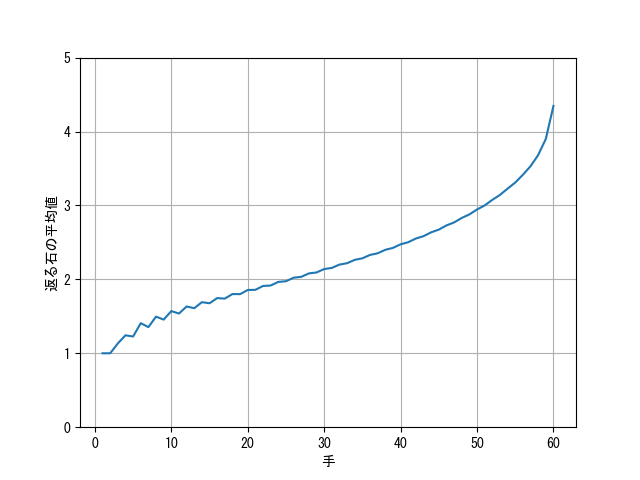
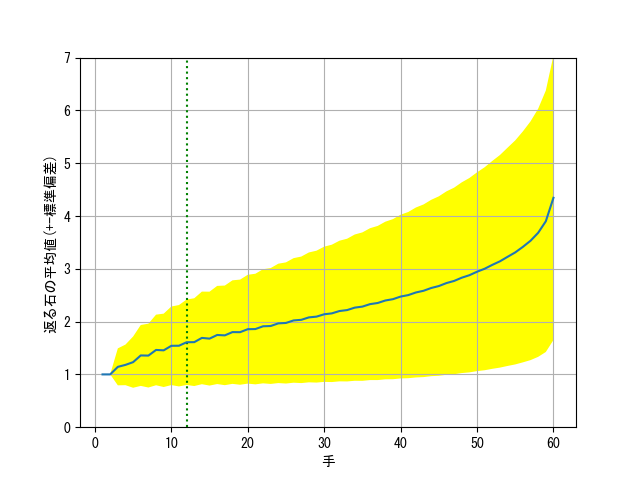
update img

diff --git a/README.md b/README.md
@@ -4,21 +4,73 @@
 
 codes are copied from [Egaroucid](https://www.egaroucid.nyanyan.dev/)
 
-
+![n_flipped](image/n_flipped.png)
 
 ```
-played 10000000 games randomly
-0 0 0 0 1 1 1.13337 1.24328
-1.227 1.4072 1.35402 1.49578 1.45548 1.57112 1.5375 1.63299
-1.61018 1.69125 1.67688 1.74666 1.73951 1.80136 1.79975 1.85637
-1.85843 1.91064 1.91686 1.96556 1.9747 2.02236 2.034 2.08053 
-2.09335 2.13942 2.1549 2.19987 2.21865 2.26391 2.28474 2.33049
-2.35289 2.3998 2.42565 2.4741 2.50251 2.55257 2.58427 2.63648
-2.67275 2.72961 2.77011 2.83088 2.87887 2.94505 3.00021 3.07535
-3.14233 3.22724 3.30968 3.41489 3.53058 3.68148 3.89986 4.34609
-avg 2.24685
+full_search_depth 12
+n_random_play 10000000
+whole_avg 2.24391
+ply 1 avg 1 sd 0 count 4
+ply 2 avg 1 sd 0 count 12
+ply 3 avg 1.14286 sd 0.349927 count 56
+ply 4 avg 1.18033 sd 0.38446 count 244
+ply 5 avg 1.23209 sd 0.485316 count 1396
+ply 6 avg 1.35902 sd 0.576684 count 8200
+ply 7 avg 1.35613 sd 0.604575 count 55092
+ply 8 avg 1.46296 sd 0.668504 count 390216
+ply 9 avg 1.45586 sd 0.694716 count 3005320
+ply 10 avg 1.54146 sd 0.744091 count 24571192
+ply 11 avg 1.54306 sd 0.770652 count 212260296
+ply 12 avg 1.60909 sd 0.809349 count 1939892240
+ply 13 avg 1.61088 sd 0.831211 count 9997408
+ply 14 avg 1.6913 sd 0.876789 count 9996845
+ply 15 avg 1.67747 sd 0.889182 count 9996650
+ply 16 avg 1.74664 sd 0.929374 count 9996207
+ply 17 avg 1.73939 sd 0.943314 count 9996090
+ply 18 avg 1.8012 sd 0.980495 count 9995796
+ply 19 avg 1.7997 sd 0.995794 count 9995701
+ply 20 avg 1.85608 sd 1.03051 count 9995486
+ply 21 avg 1.8589 sd 1.04741 count 9995398
+ply 22 avg 1.91122 sd 1.08053 count 9995273
+ply 23 avg 1.91657 sd 1.09712 count 9995217
+ply 24 avg 1.96629 sd 1.13037 count 9995140
+ply 25 avg 1.97444 sd 1.14737 count 9995104
+ply 26 avg 2.02226 sd 1.17958 count 9995052
+ply 27 avg 2.03357 sd 1.198 count 9995024
+ply 28 avg 2.07968 sd 1.22982 count 9995001
+ply 29 avg 2.09421 sd 1.24907 count 9994989
+ply 30 avg 2.13873 sd 1.28048 count 9994970
+ply 31 avg 2.15571 sd 1.30075 count 9994955
+ply 32 avg 2.20012 sd 1.33192 count 9994940
+ply 33 avg 2.21817 sd 1.35154 count 9994934
+ply 34 avg 2.26451 sd 1.38512 count 9994924
+ply 35 avg 2.2839 sd 1.40575 count 9994914
+ply 36 avg 2.33066 sd 1.43811 count 9994912
+ply 37 avg 2.35231 sd 1.45974 count 9994907
+ply 38 avg 2.39952 sd 1.49256 count 9994902
+ply 39 avg 2.42493 sd 1.5162 count 9994897
+ply 40 avg 2.47391 sd 1.55062 count 9994893
+ply 41 avg 2.50192 sd 1.57387 count 9994892
+ply 42 avg 2.55163 sd 1.60938 count 9994890
+ply 43 avg 2.5837 sd 1.63495 count 9994887
+ply 44 avg 2.63622 sd 1.66999 count 9994885
+ply 45 avg 2.67323 sd 1.69923 count 9994883
+ply 46 avg 2.72967 sd 1.73675 count 9994880
+ply 47 avg 2.77002 sd 1.76681 count 9994873
+ply 48 avg 2.83136 sd 1.80612 count 9994872
+ply 49 avg 2.87867 sd 1.84078 count 9994870
+ply 50 avg 2.94448 sd 1.88232 count 9994868
+ply 51 avg 3.00118 sd 1.92232 count 9994867
+ply 52 avg 3.07456 sd 1.96882 count 9994863
+ply 53 avg 3.14183 sd 2.01321 count 9994858
+ply 54 avg 3.22723 sd 2.06715 count 9994854
+ply 55 avg 3.31049 sd 2.12168 count 9994850
+ply 56 avg 3.41522 sd 2.18721 count 9994831
+ply 57 avg 3.53119 sd 2.2607 count 9994770
+ply 58 avg 3.68208 sd 2.34977 count 9994430
+ply 59 avg 3.90004 sd 2.47568 count 9991081
+ply 60 avg 4.34456 sd 2.69423 count 9904256
 ```
 
 
 
-![n_flipped](img/n_flipped.png)
